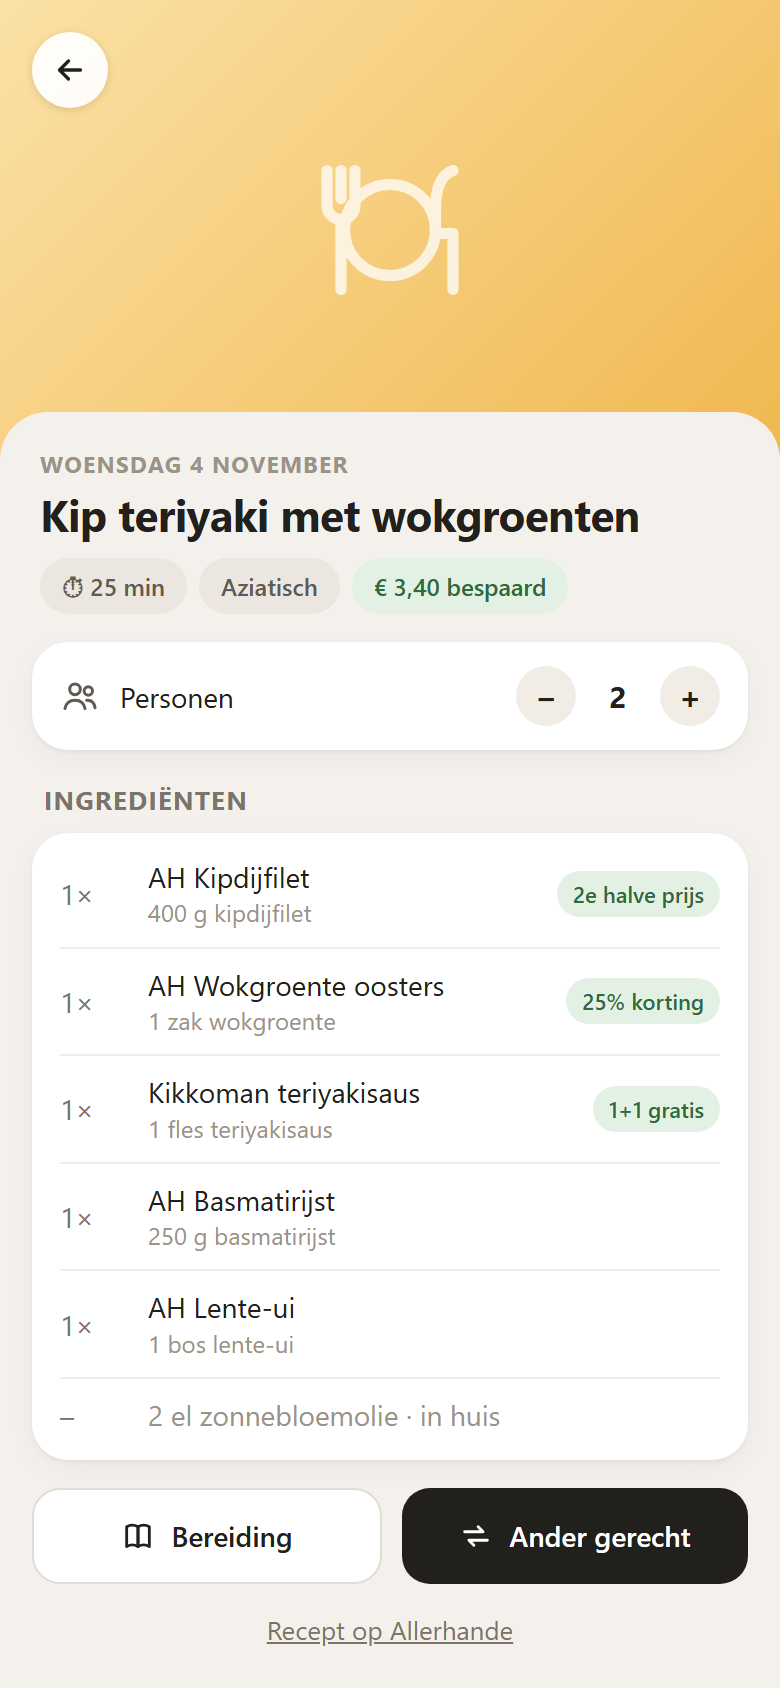
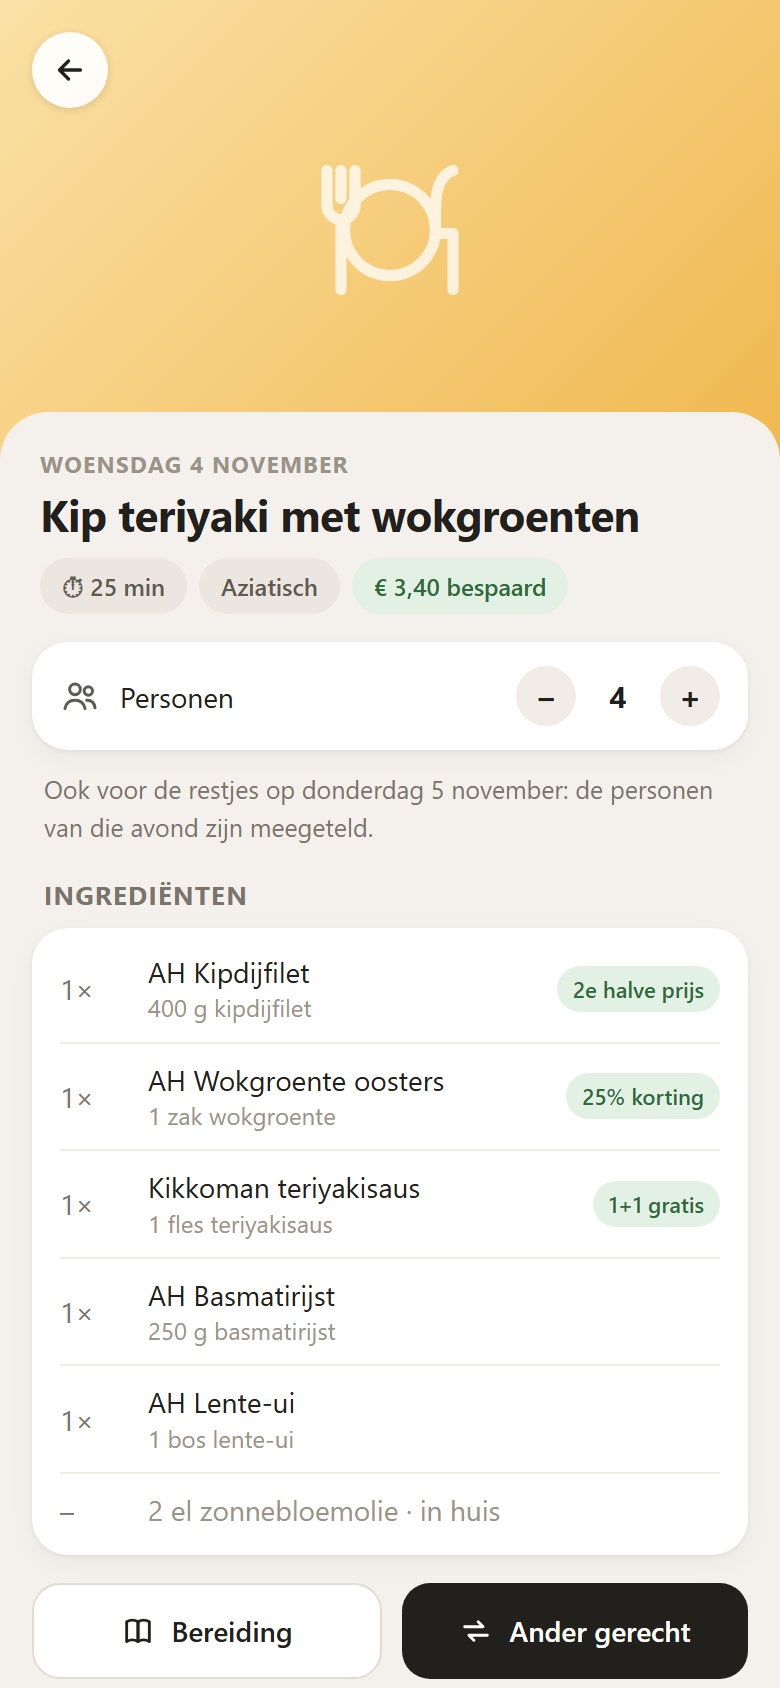
feat: app toont Kookmomenten met uitleg en een restjeskaart die het gerecht opent
README en screenshots bijgewerkt.

diff --git a/weekmenu/app/static/app.js b/weekmenu/app/static/app.js
@@ -120,6 +120,7 @@ const ICON = {
   refresh: '<svg viewBox="0 0 24 24" aria-hidden="true"><path d="M20 11a8 8 0 1 0-2.3 5.7"/><path d="M20 4v7h-7"/></svg>',
   plus: '<svg viewBox="0 0 24 24" aria-hidden="true"><path d="M12 5v14M5 12h14"/></svg>',
   check: '<svg viewBox="0 0 24 24" aria-hidden="true"><path d="m5 12.5 4.5 4.5L19 7.5"/></svg>',
+  bowl: '<svg viewBox="0 0 24 24" aria-hidden="true"><path d="M3.5 11h17a8.5 8.5 0 0 1-17 0z"/><path d="M9 7.5c0-1.2 1-1.5 1-2.7M13 7.5c0-1.2 1-1.5 1-2.7"/></svg>',
 };
 
 function photo(recipe, cls) {
@@ -300,6 +301,11 @@ function dayCard(d) {
     return `<div class="card skip"><div class="ic">${ICON.moon}</div>
       <div><b>${esc(cap(d.dag))}</b> · niet thuis</div></div>`;
   }
+  if (d.restjes && d.restjes_van) {
+    // quiet like "niet thuis"; a tap opens the dish the leftovers come from
+    return `<button class="card skip rest" data-dish="${esc(d.restjes_van.date)}"><div class="ic">${ICON.bowl}</div>
+      <div><b>${esc(cap(d.dag))}</b> · restjes van ${esc(d.restjes_van.title)}</div></button>`;
+  }
   if (d.geen_gerecht) {
     return `<div class="card skip"><div class="ic">${ICON.moon}</div>
       <div><b>${esc(cap(d.dag))}</b> · geen gerecht</div></div>`;
@@ -434,6 +440,7 @@ function dishScreen(day) {
       <button data-persons="${d.persons - 1}" aria-label="Minder personen" ${d.persons <= 1 ? "disabled" : ""}>−</button>
       <b>${d.persons}</b>
       <button data-persons="${d.persons + 1}" aria-label="Meer personen" ${d.persons >= 8 ? "disabled" : ""}>+</button></div></div>
+    ${d.restjes ? `<p class="foot rest-note">Ook voor de restjes op ${esc(longDate(d.restjes))}: de personen van die avond zijn meegeteld.</p>` : ""}
     ${left}
     <div class="sec">Ingrediënten</div>
     <div class="card ing">${ingredientRows(d)}</div>
@@ -474,9 +481,29 @@ function savingsScreen() {
 
 // --- screens: settings -----------------------------------------------------------------
 
+/* Eat days, cooking moments and leftover nights, the way the add-on plans them:
+ * the earliest cooking days get the next eat day as leftover night, one each. */
+function cookingPlan(eat, k) {
+  k = Math.min(Math.max(1, k), Math.max(1, eat));
+  const rest = eat ? Math.min(eat - k, k) : 0;
+  return { k, rest, none: Math.max(0, eat - k - rest) };
+}
+
+function cookingText(eat, k) {
+  const p = cookingPlan(eat, k);
+  let t = `${plural(eat, "eetdag", "eetdagen")}, ${plural(p.k, "kookmoment", "kookmomenten")}, ${p.rest} keer restjes`;
+  if (eat && p.none) t += `. ${plural(p.none, "avond", "avonden")} zonder gerecht`;
+  return t;
+}
+
+function eatDays(s) { return WEEK_ORDER.filter((dag) => Number(s.persons[dag]) !== 0).length; }
+
 function settingsScreen() {
   const s = state.settings;
   const isAway = (dag) => Number(s.persons[dag]) === 0;  // also when set in Home Assistant
+  const eat = eatDays(s);
+  const maxK = Math.max(1, eat);
+  const k = Math.min(Math.max(1, Number(s.avonden) || 1), maxK);
   const chips = WEEK_ORDER.map((dag) => `<button class="chip${isAway(dag) ? " x" : ""}" data-away="${dag}" aria-pressed="${isAway(dag)}" aria-label="Niet thuis eten op ${dag}">${esc(DAGEN_KORT[dag])}</button>`).join("");
   const boxes = WEEK_ORDER.map((dag) => {
     const away = isAway(dag);
@@ -490,10 +517,11 @@ function settingsScreen() {
     <div class="card set">
       <div class="srow">Elke week vanzelf een menu maken
         <button class="toggle ${s.enabled ? "on" : "off"}" data-toggle>${s.enabled ? "● aan" : "○ uit"}</button></div>
-      <div class="srow">Kookavonden <div class="stp">
-        <button data-avonden="${s.avonden - 1}" aria-label="Minder kookavonden" ${s.avonden <= 1 ? "disabled" : ""}>−</button>
-        <b>${esc(s.avonden)}</b>
-        <button data-avonden="${s.avonden + 1}" aria-label="Meer kookavonden" ${s.avonden >= 7 ? "disabled" : ""}>+</button></div></div>
+      <div class="srow k">Kookmomenten <div class="stp">
+        <button data-avonden="${k - 1}" aria-label="Minder kookmomenten" ${k <= 1 ? "disabled" : ""}>−</button>
+        <b>${esc(k)}</b>
+        <button data-avonden="${k + 1}" aria-label="Meer kookmomenten" ${k >= maxK ? "disabled" : ""}>+</button></div></div>
+      <p class="expl">${esc(cookingText(eat, k))}</p>
       <div class="lbl2">Niet thuis eten <span class="hint">· tik de dagen aan</span></div>
       <div class="tw">${chips}</div>
       <div class="lbl2">Personen per avond <span class="hint">· tik om te wijzigen</span></div>
@@ -600,7 +628,7 @@ async function afterDishWrite(day, data) {
 }
 
 async function setSetting(entity, value) {
-  await api("api/settings", { entity_id: entity, value });
+  return api("api/settings", { entity_id: entity, value });
 }
 
 async function startRound(btn, mode) {
@@ -732,7 +760,10 @@ app.addEventListener("click", async (ev) => {
   }
   if (t.dataset.avonden) {
     const n = Number(t.dataset.avonden);
-    await busy(t, async () => { await setSetting(s.entities.avonden, n); s.avonden = n; });
+    await busy(t, async () => {
+      const r = await setSetting(s.entities.avonden, n);  // bounded to the eat days
+      s.avonden = r && typeof r.value === "number" ? r.value : n;
+    });
     render();
     return;
   }
@@ -742,6 +773,8 @@ app.addEventListener("click", async (ev) => {
     await busy(t, async () => {
       const r = await api("api/settings", { entity_id: s.entities.persons[dag], away });
       s.persons[dag] = r && typeof r.value === "number" ? r.value : (away ? 0 : 2);
+      // fewer eat days: the add-on bounds the cooking moments when it reads them
+      s.avonden = Math.min(Number(s.avonden) || 1, Math.max(1, eatDays(s)));
     });
     render();
     return;

diff --git a/weekmenu/app/static/app.css b/weekmenu/app/static/app.css
@@ -46,6 +46,10 @@ a{color:inherit}
 .skip .ic{width:40px;height:40px;border-radius:12px;background:#f1ede6;display:flex;align-items:center;justify-content:center;flex:none}
 .skip .ic svg{width:20px;height:20px;stroke:#9a9388;stroke-width:1.7;fill:none;stroke-linecap:round;stroke-linejoin:round}
 .skip b{color:#22201c}
+.skip.rest{width:calc(100% - 32px);text-align:left}
+.srow.k{border-bottom:0;padding-bottom:2px}
+.expl{font-size:12.5px;color:#7a746b;padding:0 0 12px;border-bottom:1px solid #f1ede6}
+.rest-note{margin:0 22px 10px}
 .sec{font-size:13px;font-weight:700;color:#7a746b;margin:16px 22px 8px;text-transform:uppercase;letter-spacing:.6px}
 
 /* notes (warnings, leftovers) */

diff --git a/weekmenu/tests/test_frontend.py b/weekmenu/tests/test_frontend.py
@@ -73,7 +73,9 @@ def _dish(day, rid, title, cuisine, cook, savings, lines, *, oven=None, wait=Non
 
 
 def fake_plan() -> Plan:
-    wo, do, za, zo, ma = (date(2026, 11, d) for d in (4, 5, 7, 8, 9))
+    # 6 eat days (dinsdag niet thuis), 5 cooking moments: donderdag is the leftover
+    # night of woensdag, which cooks for both days
+    wo, do, vr, za, zo, ma = (date(2026, 11, d) for d in (4, 5, 6, 7, 8, 9))
     kip = _p(1, "AH Kipdijfilet", "2e halve prijs")
     wok = _p(2, "AH Wokgroente oosters", "25% korting")
     teri = _p(3, "Kikkoman teriyakisaus", "1+1 gratis")
@@ -102,8 +104,9 @@ def fake_plan() -> Plan:
                 "Kook de rijst volgens de aanwijzingen op de verpakking.",
                 "Snijd de kipdijfilet in reepjes en bak 6 min in de wok.",
                 "Voeg de wokgroente toe en roerbak 4 min.",
-                "Schenk de teriyakisaus erbij en verwarm 1 min. Bestrooi met lente-ui."]),
-        _dish(do, 1002, TITLES[1], "pasta en Italiaans", 35, 4.10, [
+                "Schenk de teriyakisaus erbij en verwarm 1 min. Bestrooi met lente-ui."],
+            persons=4),
+        _dish(vr, 1002, TITLES[1], "pasta en Italiaans", 35, 4.10, [
             (gehakt, 1, "300 g gehaktballetjes"), (pasta, 1, "300 g penne"),
             (tomaat, 2, "700 g passata"), (kaas, 1, "40 g Parmezaanse kaas")],
             pantry=["1 el olijfolie", "peper en zout"], not_found=["snufje nootmuskaat"]),
@@ -119,6 +122,7 @@ def fake_plan() -> Plan:
             (zalm, 1, "2 zalmfilets"), (kriel, 1, "500 g krieltjes"),
             (bonen, 1, "300 g sperziebonen")], fish=True),
     ]
+    dishes[0].leftover_date = do
     # links that are not https never reach the page
     dishes[-1].recipe.url = "javascript:alert(1)"
     dishes[-1].recipe.image = "http://example.invalid/zalm.jpg"
@@ -146,7 +150,6 @@ def fake_staples() -> list[Staple]:
 def build_ctx(tmp_path):
     ctx = make_ctx(tmp_path, now=NOW)
     ctx.store.save(Tokens("test-access", "test-refresh", 9e9))
-    ctx.hass.states[helper_persons()["vrijdag"]] = "0"  # niet thuis
     ctx.hass.states[helper_persons()["zaterdag"]] = "4"
     ctx.hass.states[helper_persons()["dinsdag"]] = "0"  # niet thuis
     plan = fake_plan()
@@ -241,7 +244,10 @@ def test_app_screens_in_chrome(tmp_path):
         assert dom.index("in bestelling") < dom.index(order)
         for title in TITLES:
             assert title.replace("'", "&#39;") in dom or title in dom, title
-        assert "Vrijdag</b> · niet thuis" in dom and "ouders" not in dom
+        assert "ouders" not in dom and "Vrijdag</b> · niet thuis" not in dom
+        # the leftover night: a quiet card that opens the dish it comes from
+        assert ('<button class="card skip rest" data-dish="2026-11-04">' in dom
+                and f"Donderdag</b> · restjes van {TITLES[0]}" in dom)
         assert "Dinsdag</b> · niet thuis" in dom
         assert "€ 14,85" in dom
         assert "geschat" in dom
@@ -259,8 +265,9 @@ def test_app_screens_in_chrome(tmp_path):
         assert "Recept op Allerhande" in dom  # https link: shown
         assert "Bereiding" in dom and "Ander gerecht" in dom
         assert "Gerecht weghalen" in dom and "data-remove" in dom
+        assert "Ook voor de restjes op donderdag 5 november" in dom and "<b>4</b>" in dom
 
-        dom = render(base, "#gerecht/2026-11-05", tmp_path, "gerecht-niet-gevonden")
+        dom = render(base, "#gerecht/2026-11-06", tmp_path, "gerecht-niet-gevonden")
         assert "niet gevonden" in dom and "snufje nootmuskaat" in dom
 
         dom = chrome(base + "#gerecht/2026-11-09", tmp_path / "profile-unsafe")
@@ -272,14 +279,16 @@ def test_app_screens_in_chrome(tmp_path):
         assert "€ 57,15" in dom and "€ 14,85" in dom and "wk 45" in dom
 
         dom = render(base, "#instellingen", tmp_path, "instellingen")
-        assert "Kookavonden" in dom and "Niet thuis eten" in dom and "ouders" not in dom and "Nieuw menu" in dom
+        assert "Kookmomenten" in dom and "Kookavonden" not in dom and "Niet thuis eten" in dom and "ouders" not in dom and "Nieuw menu" in dom
         assert "Nu maken" in dom
         assert 'class="box away"' in dom and "Personen op dinsdag: niet thuis" in dom
-        # chips wo..di: vr and di are pressed (di and vr are at 0 in Home Assistant)
-        assert dom.count('class="chip x"') == 2
-        assert 'class="chip x" data-away="vrijdag"' in dom and 'class="chip x" data-away="dinsdag"' in dom
-        assert 'class="chip" data-away="woensdag"' in dom
-        assert dom.count("disabled") >= 2 and "<b>–</b>" in dom
+        assert "6 eetdagen, 5 kookmomenten, 1 keer restjes" in dom
+        assert 'aria-label="Meer kookmomenten" disabled' not in dom  # 5 of 6: + still works
+        # chips wo..di: only di is pressed (at 0 in Home Assistant)
+        assert dom.count('class="chip x"') == 1
+        assert 'class="chip x" data-away="dinsdag"' in dom
+        assert 'class="chip" data-away="woensdag"' in dom and 'class="chip" data-away="vrijdag"' in dom
+        assert dom.count("disabled") >= 1 and "<b>–</b>" in dom
         assert 'href="#inloggen"' in dom and "Opnieuw inloggen" in dom
 
         dom = render(base, "#inloggen", tmp_path, "opnieuw-inloggen")

diff --git a/README.md b/README.md
@@ -18,4 +18,8 @@ The menu is made as soon as the AH bonus folder of the delivery week is out, usu
 
 ## Not eating at home
 
-In the app, under Settings, tap the days (Wednesday to Tuesday) you do not eat at home. A tapped day sets the persons of that weekday to 0: no dish, nothing bought, and the next day moves up (never past Tuesday). Tap the day again and the earlier number of persons comes back (2 if there was none); the add-on keeps that number in `/data/niet_thuis.json`, also after a restart. If you set a persons helper to 0 in Home Assistant yourself, the app shows that day as tapped. The week tab, the push message and `sensor.weekmenu` call such an evening "niet thuis".
+In the app, under Settings, tap the days (Wednesday to Tuesday) you do not eat at home. A tapped day sets the persons of that weekday to 0: no dish and nothing bought. Tap the day again and the earlier number of persons comes back (2 if there was none); the add-on keeps that number in `/data/niet_thuis.json`, also after a restart. If you set a persons helper to 0 in Home Assistant yourself, the app shows that day as tapped. The week tab, the push message and `sensor.weekmenu` call such an evening "niet thuis".
+
+## Cooking moments and leftovers
+
+The days you do eat at home are the eat days. Under Settings you choose the number of cooking moments (`input_number.weekmenu_avonden`), from 1 up to the number of eat days; a value outside that range is bounded, not refused. With fewer cooking moments than eat days, the extra eat days become leftover nights: the earliest cooking days cook for their own evening plus the next eat day (2 + 2 = 4 persons), at most one leftover night each, and never with fish. Nothing extra is bought for a leftover night. The app, the push message and `sensor.weekmenu` show it as "<day> · restjes van <dish>"; on the sensor it is an entry of its own with the field `restjes_van`. Swapping the dish keeps the leftover night, removing the dish drops it too. With fewer than half as many cooking moments as eat days, the last eat days get no dish.

diff --git a/docs/screenshots/README.md b/docs/screenshots/README.md
@@ -22,8 +22,8 @@ Screenshots of the built Weekmenu app, made by `weekmenu/tests/test_frontend.py`
 | ![Savings](app-besparing.png) | ![Settings](app-instellingen.png) |
 | ![Login](app-login.png) | |
 
-1. Week: under the title the order it is for ("Voor de bestelling van woensdag 4 november"), then the savings of the week, then one card per evening, an evening not at home as a quiet card, and under the dishes "Ook in de bonus": staples bought often that are on offer, each with a plus button
+1. Week: under the title the order it is for ("Voor de bestelling van woensdag 4 november"), then the savings of the week, then one card per evening, an evening not at home and a leftover night ("Donderdag · restjes van ...") as quiet cards, and under the dishes "Ook in de bonus": staples bought often that are on offer, each with a plus button
 2. One dish: persons, ingredients with the AH product and the bonus offer, preparation and swap
 3. Savings: this month, since the start, and per week
-4. Settings: the same helpers as in Home Assistant, with "Niet thuis eten" chips per day, plus Nieuw menu and Nu maken
+4. Settings: the same helpers as in Home Assistant: Kookmomenten with the explanation "6 eetdagen, 5 kookmomenten, 1 keer restjes", "Niet thuis eten" chips per day, plus Nieuw menu and Nu maken
 5. Login: paste the `appie://login-exit?code=…` line from the browser console
